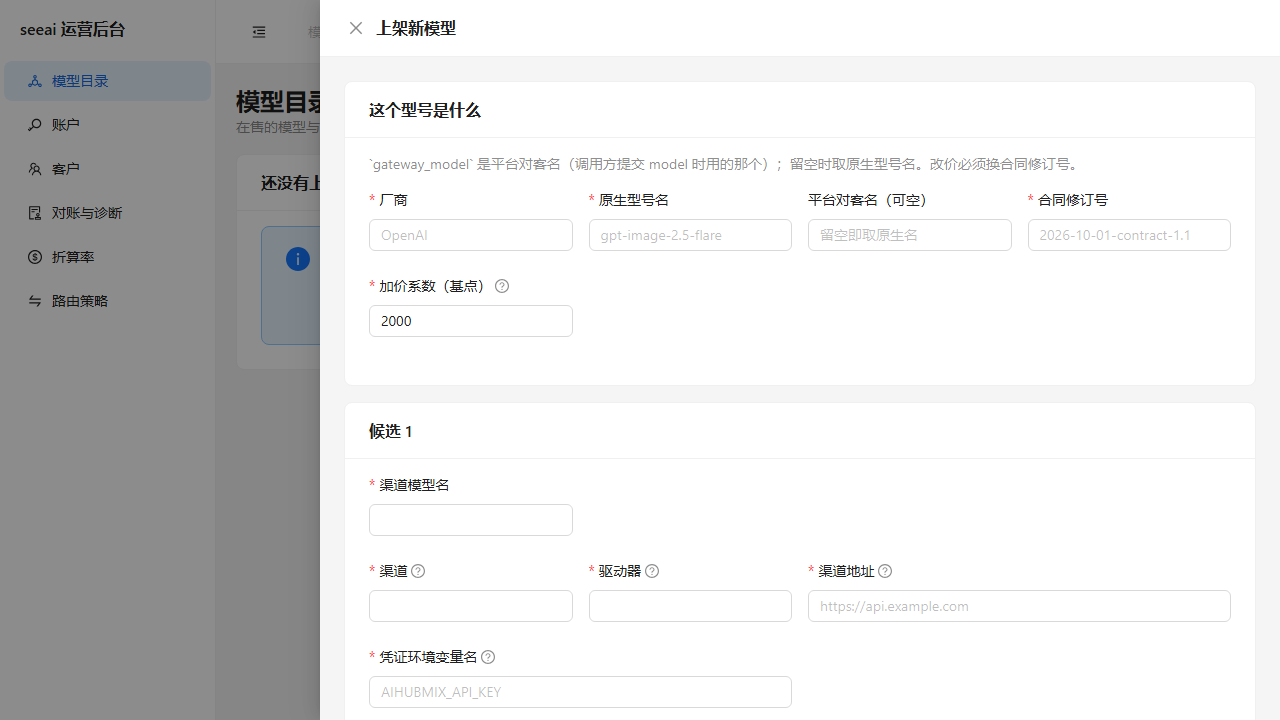
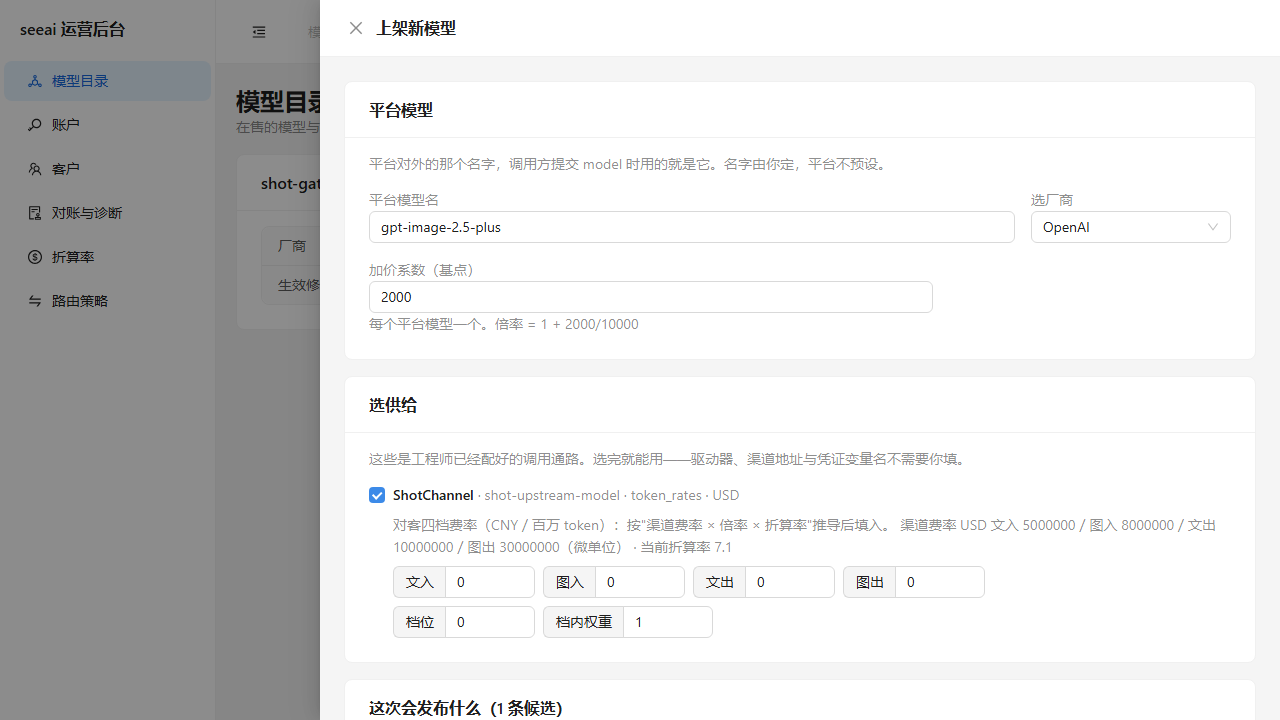
chore(screenshots): 重抓截图——07 改成画运营那条路，01 改成有内容的一屏
截图是 **13:50** 抓的，而 R5 改界面是 **16:26**，所以它们比界面旧了两个半小时。那时 `07-上架新模型`
画的是**旧的内联表单**（渠道、驱动器、承载面那一堆），而运营现在看到的是"选厂商 → 勾供给 → 给价"。

## 抓图脚本的三处改动

1. **07 改画运营那条路**：填平台模型名 → 选厂商 → 勾一条供给。工程师那条"贴整份发布定义"的老路收在
   抽屉底部折叠区里，默认收起，因此不在这一屏里。
2. **夹具挪到页面循环之前**，并**在发布后重载一次**：可选清单与模型目录的数据在第一次进入页面时就取了，
   那时夹具还没发布，而点一个已经在的菜单项不会重新拉。所以 `01-模型目录` 原来抓到的是**空态**——
   空态也是真的，但它固定不住"目录里有什么"这个最要紧的一屏。
3. **抓图前加一道断言**（`assertCatalogHasFixture`）：确认夹具那个名字真在页面上。抓图不做断言的话，
   一次静默的空态就会变成"留档"，而看图的人以为目录本来就长这样。这是这轮真正的教训：
   **图"能生成"不等于图"画对了"**。

## 结果

- `07` 画的是运营那条路：平台模型名、选厂商、加价系数、勾中的供给（**没有**驱动器/渠道地址/凭证变量名）、
  四档对客费率、当前折算率、档位与权重、底部"这次会发布什么"；
- `01` 画的是有内容的一屏（夹具那个型号、厂商、合同修订、加价系数、发布时间）；
- **10 张里 5 张有变化**（`01`/`02`/`05`/`07`/`11`），另外 5 张逐字节未变——说明 R5 确实没影响那些页面。

`npm run capture`：**2 passed**。

## 一处如实记下

`07` 是 1280×720，抽屉这一屏只截到视口高度（`fullPage: true` 对独立滚动的抽屉无效），底部
"这次会发布什么"被截断。这是抓图脚本的老行为，不是 R5 引入的。

diff --git a/apps/web/e2e/capture-screenshots.capture.ts b/apps/web/e2e/capture-screenshots.capture.ts
@@ -1,4 +1,5 @@
 import { test } from '@playwright/test';
+import type { APIRequestContext, Page } from '@playwright/test';
 import { adminApiUrl, consoleUrl, portalUrl, settings } from './settings';
 
 /// 给两套界面的各个页面抓整页截图，落到 `apps/web/screenshots/`。
@@ -28,6 +29,16 @@ test('运营后台六个页面各抓一张截图', async ({ page, request }) => 
   await page.getByTestId('admin-sign-in').click();
   await page.locator('.ant-layout-sider').getByRole('menuitem', { name: '模型目录' }).waitFor();
 
+  // **先造数据再看页**：可选供给（运营那条路的清单来源）与一条已上架的型号。放到挨着页面循环之前，
+  // 否则「模型目录」抓到的是一张空态图——空态也是真的，但它固定不住"目录里有什么"这个最要紧的一屏。
+  await publishCaptureFixture(request);
+  // 重新加载一次：页面在**第一次进入**时就取了数据，那时夹具还没发布；而点一个已经在的菜单项不会
+  // 重新拉。不重载的话后面那张图仍旧是空态，而且**看起来完全正常**——这正是抓图最容易骗过人的地方。
+  await page.reload();
+  await page.locator('.ant-layout-sider').getByRole('menuitem', { name: '模型目录' }).waitFor();
+  // 抓图前先把"这一屏应该有内容"钉住：图是给人看的，静默抓到空态没人会发现。
+  await assertCatalogHasFixture(page);
+
   for (const [index, label] of CONSOLE_PAGES.entries()) {
     await page.locator('.ant-layout-sider').getByRole('menuitem', { name: label }).click();
     await page.waitForTimeout(700);
@@ -38,11 +49,100 @@ test('运营后台六个页面各抓一张截图', async ({ page, request }) => 
   }
 
   // 「上架新模型」的表单开在模型目录的抽屉里，它也是要给人看的一屏。
+  //
+  // **画的是运营那条路**（选厂商 → 勾供给 → 给价）：它是运营实际看到的界面，留档就该固定这一屏。
+  // 工程师那条"贴整份发布定义"的老路收在抽屉底部的折叠区里，默认收起，不在这一屏里。
+  //
+  // 但这条路的清单来自**库里现成的供给**，而抓图用的是空库、也没有素材导入——不先造一条，
+  // 截出来的就是"这个厂商下还没有配好的供给"那句提示，等于没固定住界面。供给已经在页面循环之前
+  // 由 `publishCaptureFixture` 造好，这里直接打开运营的抽屉：勾一条，价与折算率那一屏也就跟着出来了。
   await page.locator('.ant-layout-sider').getByRole('menuitem', { name: '模型目录' }).click();
   await page.getByTestId('models-add').click();
+  await page.getByTestId('platform-name').fill('gpt-image-2.5-plus');
+  await page.getByTestId('platform-vendor').click();
+  await page.getByTitle(CAPTURE_VENDOR).click();
+  await page.getByTestId(`platform-pick-${CAPTURE_CHANNEL}-${CAPTURE_PROVIDER_MODEL}`).check();
   await page.waitForTimeout(700);
   await page.screenshot({ path: 'screenshots/07-运营后台-上架新模型.png', fullPage: true });
 });
+
+/// 抓图用的供应商身份。用**一眼看得出是夹具**的名字：留档图会被人当成真实配置看，越像真的越容易误导。
+const CAPTURE_VENDOR = 'OpenAI';
+const CAPTURE_CHANNEL = 'ShotChannel';
+const CAPTURE_PROVIDER_MODEL = 'shot-upstream-model';
+/// 夹具发布的那个平台模型名。抓图前用它确认目录真的画出了内容。
+const CAPTURE_GATEWAY_MODEL = 'shot-gateway-model';
+
+/// 确认「模型目录」画的是**有内容**的那一屏。
+///
+/// 抓图不做断言的话，一次静默的空态就会变成"留档"，而看图的人以为目录本来就长这样。这里只钉一件
+/// 事：夹具那个名字在页面上——它不在，说明数据没到或者页面没重拉，那这张图就不能要。
+async function assertCatalogHasFixture(page: Page): Promise<void> {
+  await page
+    .getByText(CAPTURE_GATEWAY_MODEL)
+    .first()
+    .waitFor({ timeout: 15_000 });
+}
+
+/// 造一条**可被运营选中**的供给（内联形状，即工程师那条路）。
+///
+/// 为什么抓图也要造数据：可选清单是"库里现成的供给"，空库抓出来只有一句空态提示，固定不住界面。
+/// 用的渠道身份、地址与凭证变量名都是**占位值**，不会有人真的去调它。
+async function publishCaptureFixture(request: APIRequestContext): Promise<void> {
+  const vendorModel = 'shot-vendor-model';
+  const capability = {
+    type: 'object',
+    additionalProperties: false,
+    required: ['model', 'prompt'],
+    properties: {
+      model: { const: vendorModel },
+      prompt: { type: 'string', minLength: 1 },
+    },
+  };
+  const response = await request.post(`${adminApiUrl}/api/v1/runtime-revisions`, {
+    headers: { authorization: `Bearer ${settings.adminToken}` },
+    data: {
+      vendor_id: CAPTURE_VENDOR,
+      native_model_id: vendorModel,
+      gateway_model: CAPTURE_GATEWAY_MODEL,
+      native_revision: 'shot-1',
+      actor: 'capture',
+      markup_bps: 2000,
+      capability_schema: capability,
+      offerings: [
+        {
+          provider_kind: CAPTURE_CHANNEL,
+          adapter_key: 'aihubmix-image-v1',
+          provider_model_id: CAPTURE_PROVIDER_MODEL,
+          base_url: 'https://shot-placeholder.example.com',
+          credential_env: 'SHOT_PLACEHOLDER_KEY',
+          restrictions: { allowed_branches: ['prompt_only'], max_reference_images: 0 },
+          carrier_schema: capability,
+          parameter_mapping: {},
+          formula: 'token_rates',
+          price_plan: {
+            currency: 'USD',
+            text_input_microusd_per_million: 5_000_000,
+            image_input_microusd_per_million: 8_000_000,
+            text_output_microusd_per_million: 10_000_000,
+            image_output_microusd_per_million: 30_000_000,
+            source_url: 'https://shot-placeholder.example.com/pricing',
+          },
+          consumer_rates_cny: {
+            text_input_micros_per_million: 9_100_000,
+            image_input_micros_per_million: 14_500_000,
+            text_output_micros_per_million: 18_200_000,
+            image_output_micros_per_million: 54_600_000,
+          },
+          cost_currency: 'USD',
+        },
+      ],
+    },
+  });
+  if (!response.ok()) {
+    throw new Error(`抓图夹具发布失败：${response.status()} ${await response.text()}`);
+  }
+}
 
 test('客户控制台的登录页与控制台各抓一张截图', async ({ page }) => {
   await page.goto(portalUrl);
